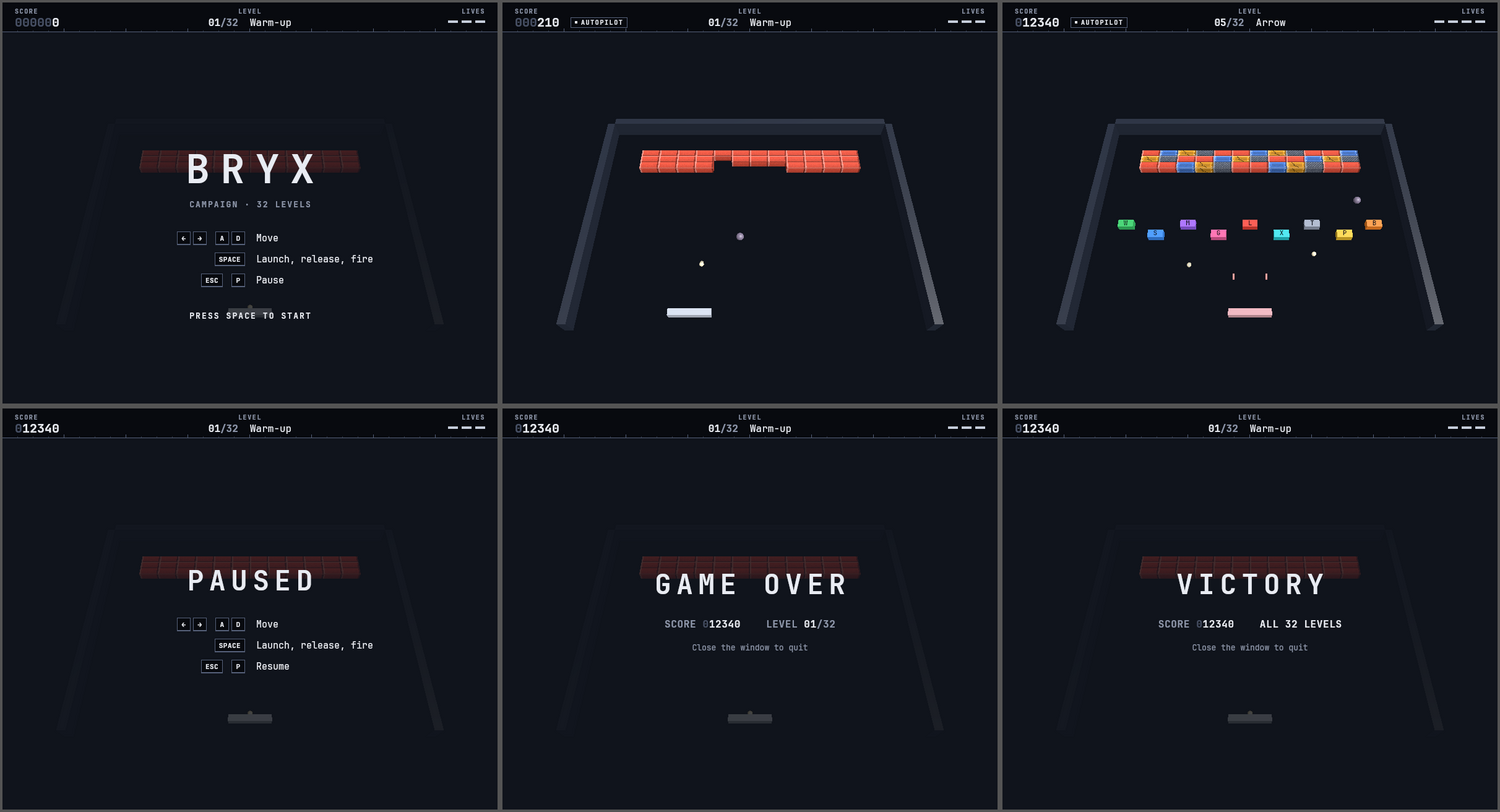
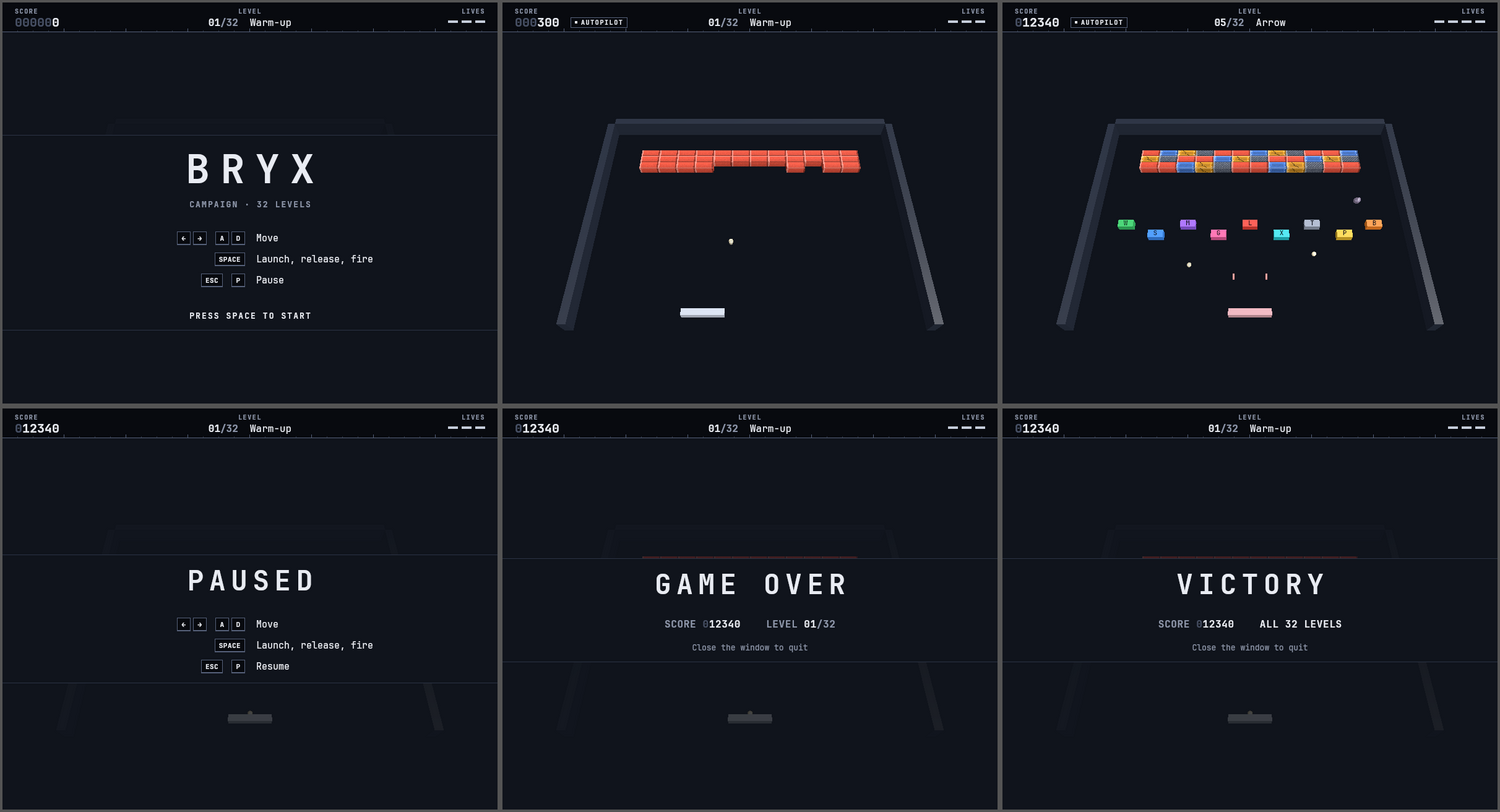
docs(design): record the follow-up fixes and refresh the screenshots
Claude-Session: https://claude.ai/code/session_011o7ztg3NMxoricUfPPsZNE

diff --git a/DESIGN.md b/DESIGN.md
@@ -224,9 +224,9 @@ bright value. No kicker sits above a title on the state screens.
   major tick every 100 px. Ticks rise into the band, never into the field.
   This is the signature move: the field drawn as the measured instrument it
   is.
-- **State screens** sit centered in the field over the scrim. The controls
-  table puts keycaps right-aligned and actions left-aligned on the field's
-  center line, 34 px per row.
+- **State screens** sit centered in the field over the scrim, their text on
+  a slate (below). The controls table puts keycaps right-aligned and actions
+  left-aligned on the field's center line, 34 px per row.
 
 ## Elevation & Depth
 
@@ -236,7 +236,8 @@ world only:
 - **2D**: beveled bricks with a top-down gloss ramp, a brushed-metal paddle,
   a specular ball, a cratered asteroid, all lit from the top left.
 - **3D**: Blinn-Phong lighting in linear space. Brick patterns are textured
-  on both the top and the front faces.
+  on the top and front faces, and stay on them while a destroyed brick
+  tumbles away. The asteroid is a jagged, flat-shaded rock mesh.
 
 ## Shapes
 
@@ -244,7 +245,8 @@ world only:
   square-cornered.
 - **Round only where it carries meaning**: the ball is round; the capsule is
   a pill so it can never be mistaken for a brick; the asteroid has an
-  irregular outline so it can never be mistaken for the ball.
+  irregular outline (2D sprite, 3D faceted mesh) so it can never be mistaken
+  for the ball.
 - **Keycaps**: a 1 px outline with a 2 px heavier bottom edge, the one hint
   of affordance in the chrome.
 
@@ -262,6 +264,24 @@ Band fill, Rule Strong outline and bottom edge, Key-style label, 22 px
 tall, at least square. Keys in a group are alternatives (4 px apart);
 groups are 14 px apart.
 
+### Slate
+A full-width band of opaque field ink behind a state screen's text, ruled
+top and bottom in Rule (1 px), like the ceiling. The scrim dims the scene;
+the slate clears it from behind the words, which matters in 3D, where the
+perspective puts the bricks and paddle where the title and prompt sit.
+Full-bleed, so it reads as a band across the instrument, not a card.
+
+### Life cue
+One beat of 0.9 s, eased out, when the lives count changes:
+- **Lost**: the LIVES caption turns Laser red; the lost life's icon stays in
+  its slot in red, fading (and dropping 5 px unless reduced motion is set);
+  a 3 px line at the field's floor lights red and fades.
+- **Gained** (Player capsule): the caption turns Player gold, and the new
+  icon starts gold and settles to metal.
+
+It is drawn by the shared HUD layer, so both renderers show it, and it is
+diffed render-side from `Game::lives`, never hooked into the simulation.
+
 ### Autopilot tag
 An outlined box with a solid 4 px square and AUTOPILOT in caption style,
 beside the score. Shown whenever `--autopilot` drives the input (PRODUCT.md,
@@ -271,7 +291,8 @@ beside the score. Shown whenever `--autopilot` drives the input (PRODUCT.md,
 - Effects follow game events and are brief: brick flash (one frame), shake
   (2D 3 px for 80 ms, 3D camera 26 units for 150 ms), a four-step trail,
   explosions (350 ms), 3D tumble ghosts (500 ms).
-- Nothing flashes above 3 Hz, and no interface element animates.
+- Nothing flashes above 3 Hz. The only interface animation is the single
+  0.9 s life cue.
 - `BRYX_REDUCED_MOTION=1` turns shake off in both renderers.
 
 ## Do's and Don'ts

diff --git a/docs/design/visual-overhaul.md b/docs/design/visual-overhaul.md
@@ -181,18 +181,25 @@ untouched.
 
 - **Real-hardware check**: verification ran on llvmpipe under Xvfb. A run on
   a GPU, on a HiDPI display, and with a hand-resized window is still owed.
-- **3D state screens over the scene**: the perspective places the 3D bricks
-  where the shared layout puts the titles. At 95% scrim they read as a dark
-  band behind the title, which stays legible, but a renderer-aware title
-  position would be cleaner.
-- **Life lost**: nothing on screen marks the moment beyond the icon count; a
-  brief band flash on `BallLost` is the obvious next step.
-- **3D asteroid** is a smooth sphere; it is told apart from the ball by its
-  much lower luminance (stone vs. warm white) and its lack of a trail, not
-  by shape. A low-poly rock mesh would close the gap.
-- **The 3D renderer's tumble ghosts** keep the flat brick color, without the
-  pattern, for their 0.5 s.
+
+Resolved in the follow-up pass (see the "Follow-ups" section below): the
+3D titles over the scene, the missing life-lost moment, the spherical 3D
+asteroid, and the unpatterned tumble ghosts.
 - **Pack art**: marks are composited onto pack bricks; a pack whose bricks
   are already busy may need its own marks.
 - **No in-game restart** from GameOver or Victory; the screen honestly says
   to close the window. Adding a key would be a controls change, out of scope.
+
+## Follow-ups
+
+The four interface issues the first pass left open, each fixed in the
+shared layer where it applies to both renderers.
+
+| Issue | Fix | Verified by |
+|---|---|---|
+| 3D titles sat over the dimmed bricks and paddle | A **slate**: an opaque, ruled, full-width band of field ink behind each state screen's text (`hud::slate`). It is drawn in both renderers; in 2D it covers nothing that mattered. | Screenshots of menu and pause in both renderers |
+| A lost life had no on-screen moment | A **life cue** in `hud.rs`: for 0.9 s, the LIVES caption turns red, the lost icon fades in its slot, and the field's floor lights once. A Player capsule gets the same beat in gold. It is a render-side diff of `Game::lives` (`LivesWatch`) and honors `BRYX_REDUCED_MOTION`. | `a_lost_life_lights_the_floor_once_then_clears`; a frame captured 0.4 s after a forced loss, in both renderers |
+| The 3D asteroid was a sphere | A **rock mesh**: a coarse sphere with each vertex pushed in or out by a hash of its quantized position (so seam and pole duplicates move together), flat-shaded per face, turning slowly. It takes one more draw call. | `rock_mesh_is_jagged_closed_and_flat_shaded` (checks jag range, flat normals, and that every edge is shared by exactly two faces); zoomed screenshot |
+| 3D tumble ghosts lost their pattern | Ghosts carry their brick's sprite, and the shader picks textured faces by the *object-space* normal, so the pattern stays on its faces while the cube spins. | `a_tumbling_brick_keeps_its_pattern`. Not screenshotted: a ghost lives 0.5 s and the harness cannot freeze one mid-tumble. |
+
+`docs/design/followups.png`: a life lost 0.4 s ago in 2D and 3D, and the 3D rock enlarged. `after-2d.png` and `after-3d.png` are refreshed with the slate.
